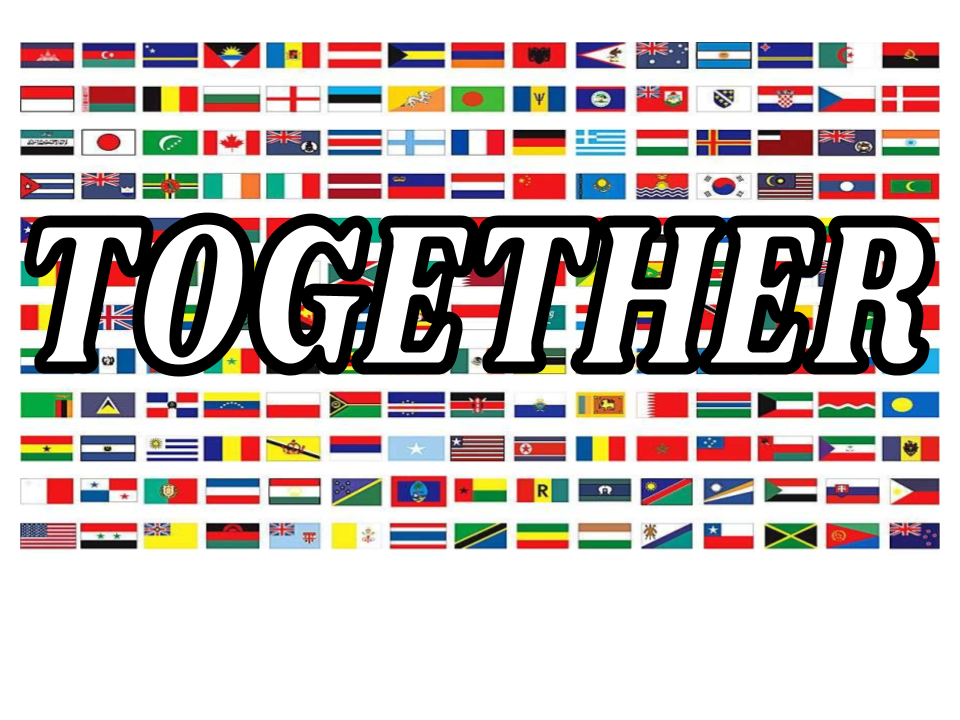
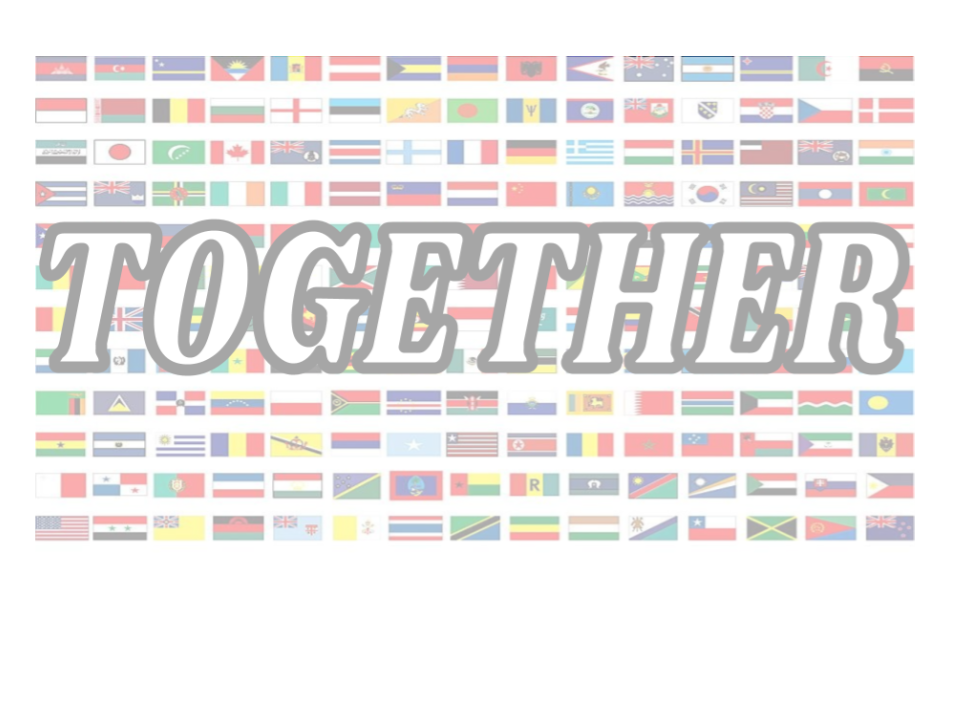
added background image and more styling

diff --git a/css/home.css b/css/home.css
@@ -1,6 +1,7 @@
 h1{
     text-align: center;
     color: red !important;
+    font-family: impact;
 }
 
 h3{
@@ -11,9 +12,11 @@ h3{
     border-style: solid;
     border-width: 5px;
     position: relative;
-    color: black;
+    color: white;
     width: 30%;
     margin: 0 auto;
+    background: black;
+    font-family: fantasy;
 }
 
 .container{
@@ -22,7 +25,11 @@ h3{
     height: 800px;
 
 }
-
+body{
+    background-image: url("../img/Collage.jpg");
+    background-attachment: fixed;
+    background-position: center;
+}
 img{
     margin: 0 auto;
     display: block;
@@ -61,23 +68,23 @@ li a:hover {
 
 .jumbotron{
     margin-bottom: 0px;
-    padding-bottom: 0px;
-    background: white;
+    padding-bottom: 10px;
+    background: black;
     
 }
-#title{
-    padding-top: 20px;
-}
+
 
 .navbar{
-    padding-left: 200px;
     background: red;
-    margin-bottom: 0px;
-    margin-top: 0 !important;
     position:fixed;
     top:0;
     width:100%;
     z-index:100;
+    list-style: none;
+    margin: 0;
+    padding: 0;
+    display: flex;
+    justify-content: space-around;
 }
 
 address{
@@ -85,6 +92,10 @@ address{
 }
 #blurb{
     color: red;
-    padding-top: 30px;
+    font-family: impact;
+    background: black;
+    width: 50%;
+    margin: 0 auto;
+    position: relative;
  
 }

diff --git a/home.html b/home.html
@@ -11,8 +11,8 @@
 </head>
 <body>
     <div class="jumbotron text-center">
-    <h1 id="title">Come to Culture Fest!</h1>
-    <nav class="navbar sticky-top navbar-light bg-faded">
+    <h1>Come to Culture Fest!</h1>
+    <nav class="navbar navbar-light bg-faded">
       <div class="collapse navbar-collapse" id="navbarNav">
         <ul class="navbar-nav">
           <li class="nav-item">
@@ -42,11 +42,10 @@
         <h3>Barton Hall</h3>
     </div>
     <div id="blurb">
-        <h4>Free food. Live performances. Cultural activities. Good vibes.</h4>
+        <h3><b>Free food. Live performances. Cultural activities. Good vibes.</b></h3>
     </div>
     <img src="img/logo.png" width="300" height="300" alt="">
 </div>
-
 
 <!-- Sign and date the page, it's only polite! -->
 </body>

diff --git a/css/aboutus.css b/css/aboutus.css
@@ -5,6 +5,7 @@ h1{
 
 h3{
     text-align: center;
+
 }
 
 #mission{
@@ -12,6 +13,10 @@ h3{
     padding-left: 40px;
     padding-right: 40px;
     float: left;
+    background: black;
+    color: white;
+    height: 300px;
+    font-family: fantasy;
 }
 
 #about{
@@ -28,9 +33,11 @@ p{
 
 h2{
     text-align: center;
+    font-family: impact;
 }
 #details{
     list-style-type: disc;
+    
 }
 
 #more{
